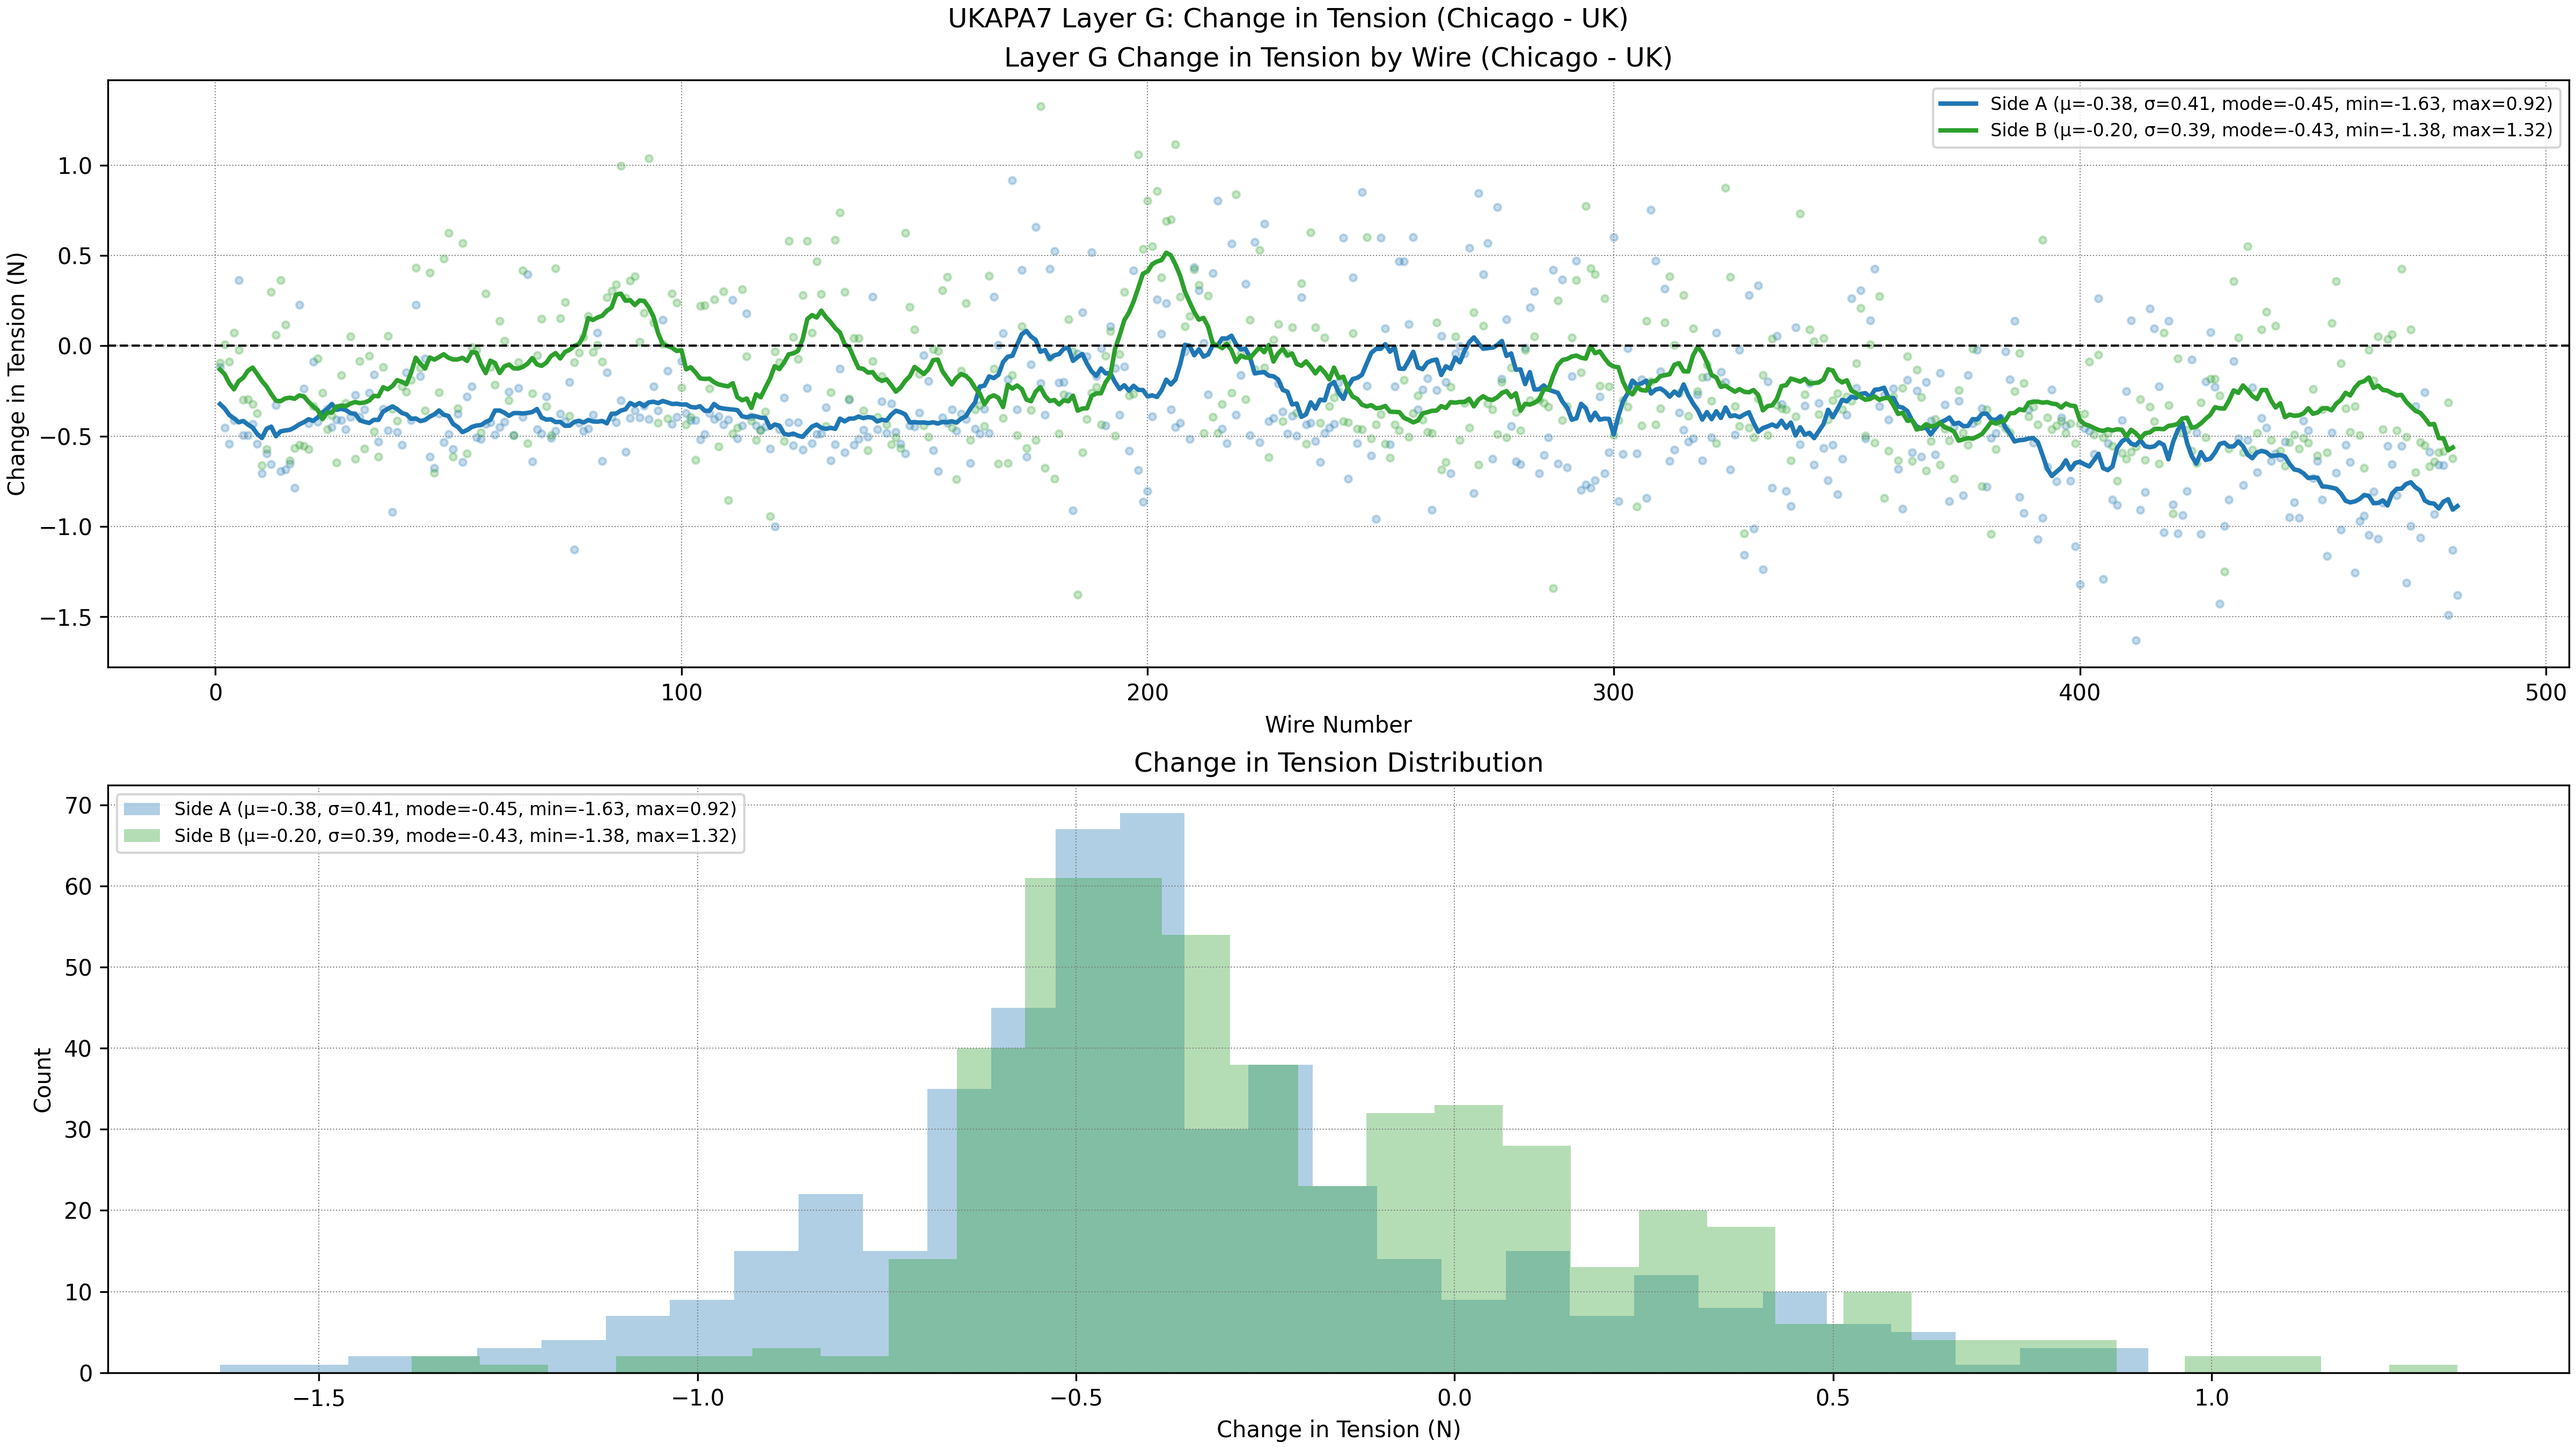
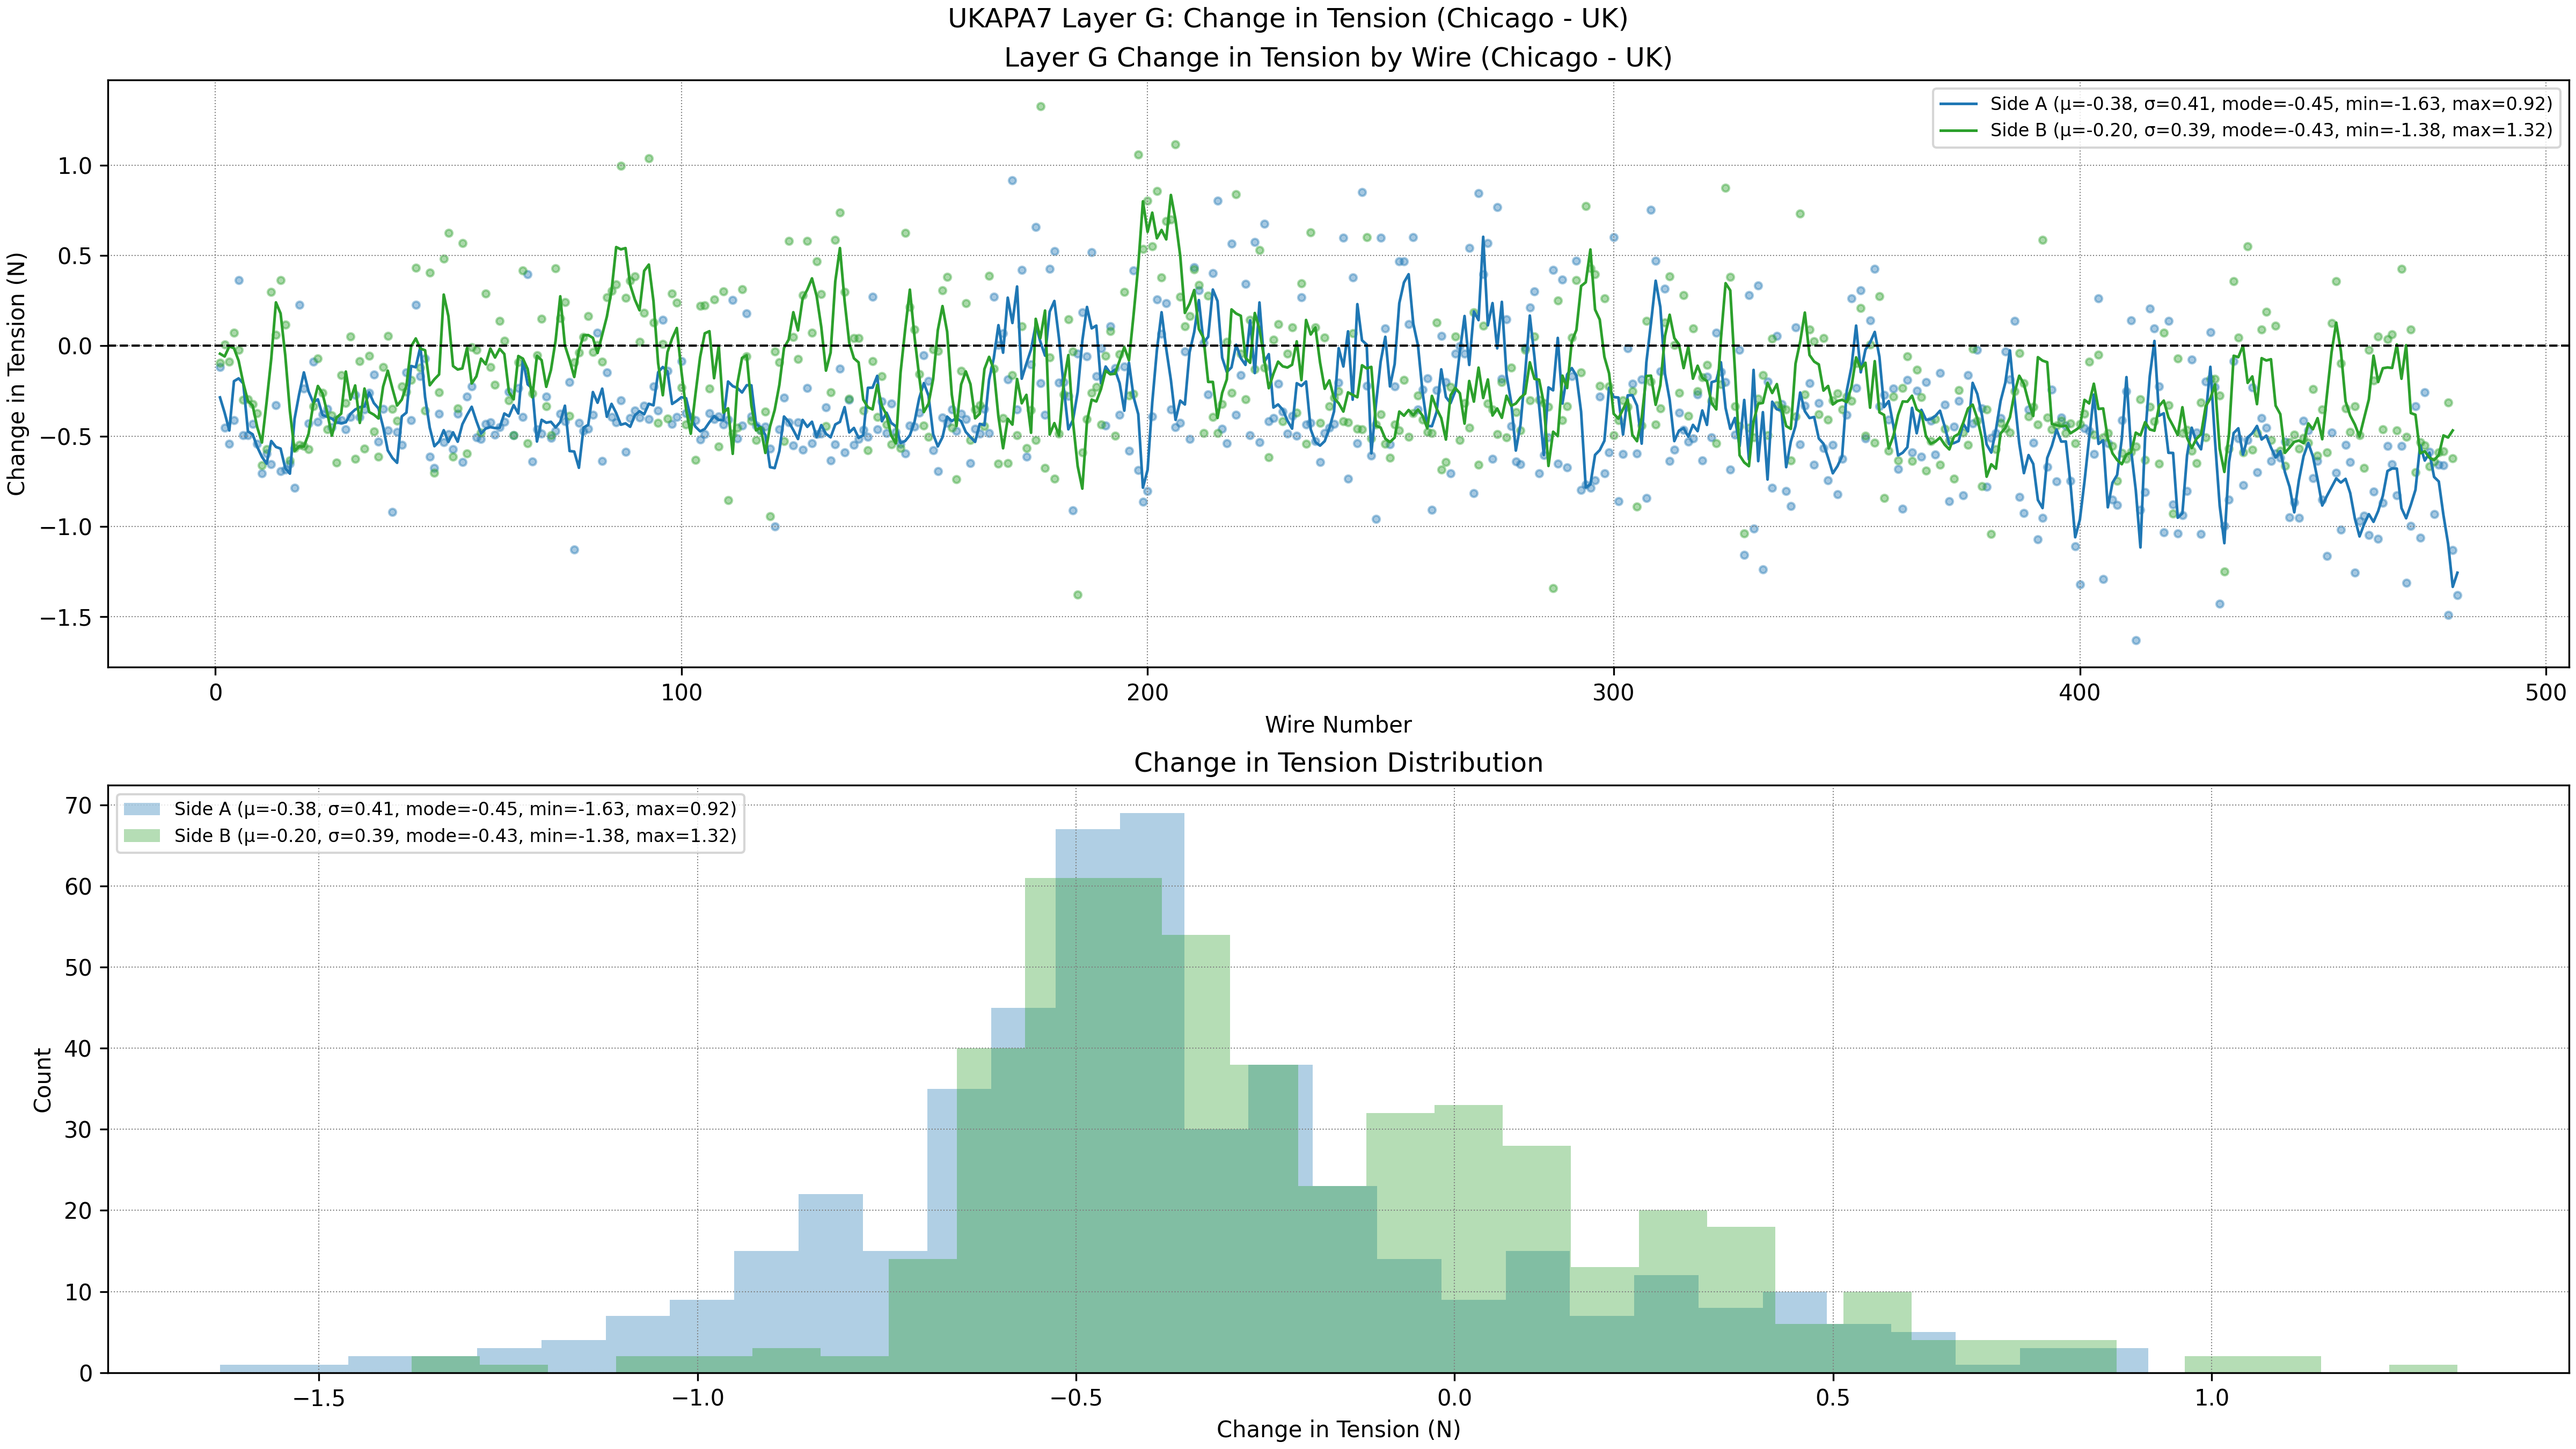
fix(tension): refresh UKAPA7 change plots

Changed region(s): [[0.0625, 0.1244, 0.9688, 0.3733]]

diff --git a/src/dune_tension/ukapa7_comparison/generate_landscape_display_plots.py b/src/dune_tension/ukapa7_comparison/generate_landscape_display_plots.py
@@ -216,13 +216,13 @@ def _plot_layer_residuals(
             subset["wire_number"],
             residual,
             s=10,
-            alpha=0.25,
+            alpha=0.4,
             color=colors[side],
         )
         top_ax.plot(
             subset["wire_number"],
-            _rolling_mean(residual.reset_index(drop=True)),
-            linewidth=2,
+            _rolling_mean(residual.reset_index(drop=True), window=3),
+            linewidth=1.2,
             color=colors[side],
             label=label,
         )
